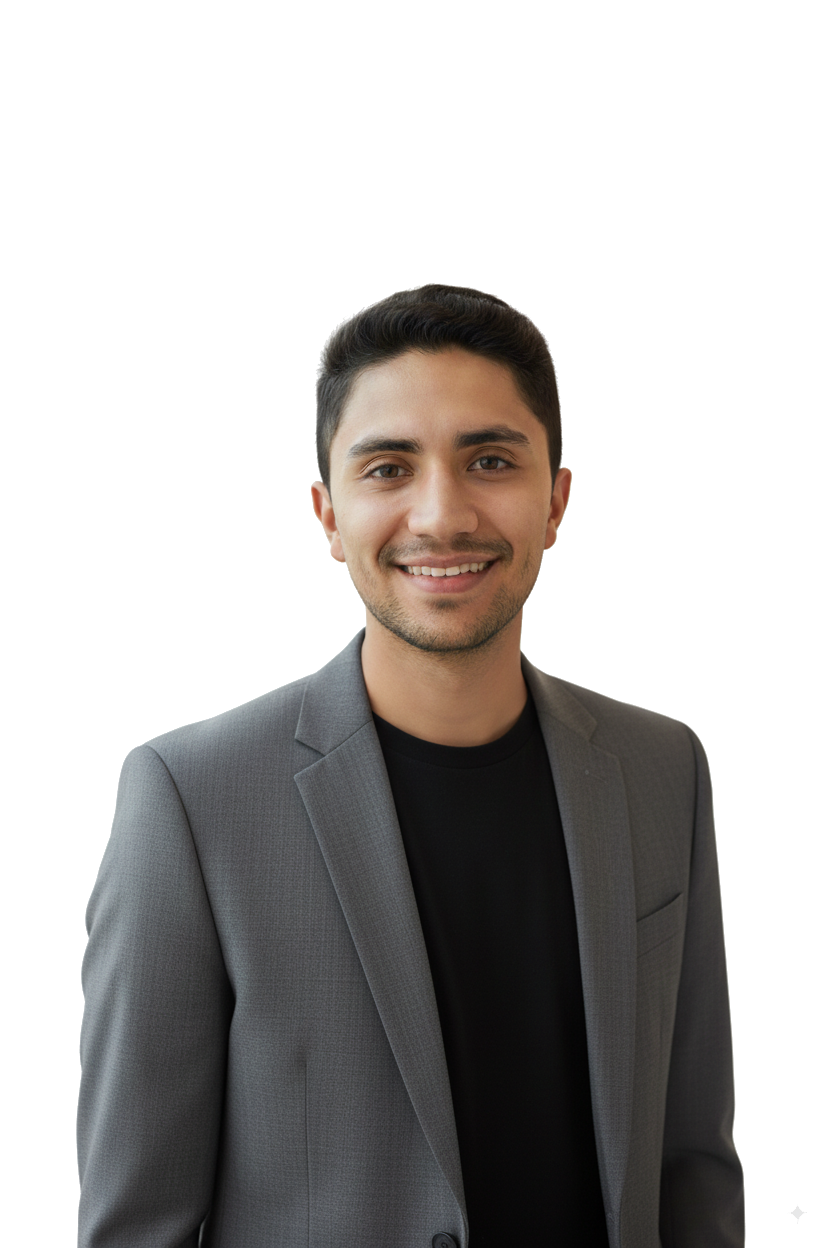
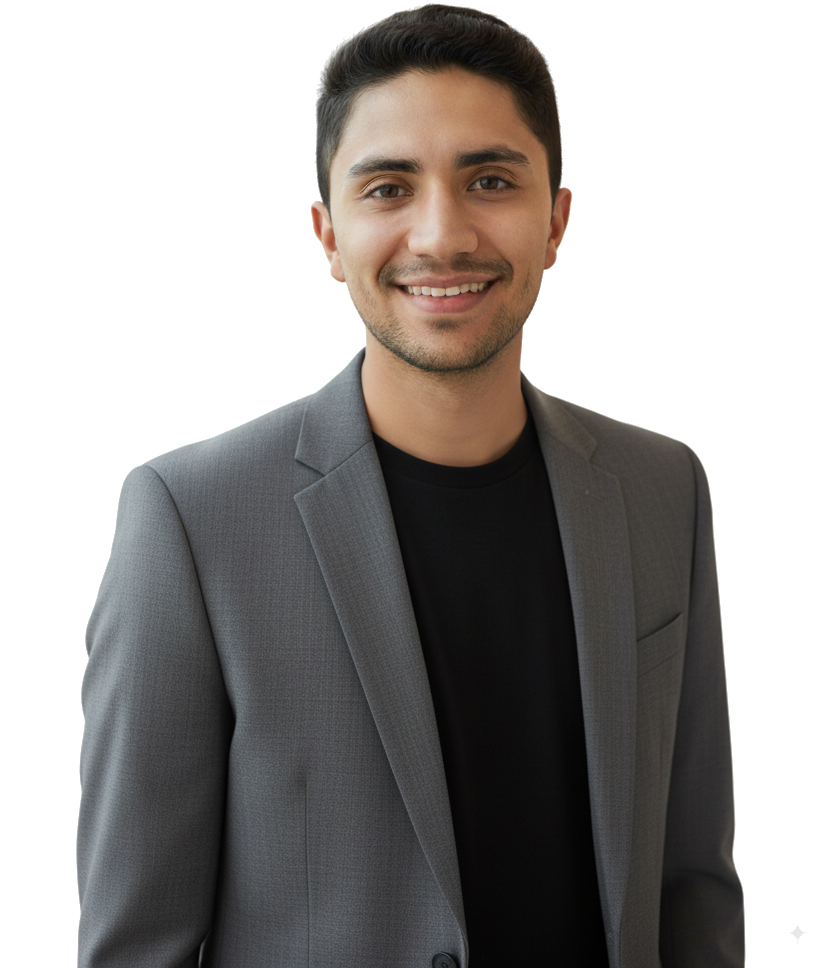
removed graph from responsive version

diff --git a/components/StartSection/StartPage.module.css b/components/StartSection/StartPage.module.css
@@ -63,7 +63,7 @@
 }
 
 .photo_container {
-  margin: 0 auto;
+  margin: 10px auto 0 auto;
   width: 400px;
   height: 325px;
   position: relative;
@@ -72,7 +72,6 @@
 
 .photo {
   width: 100%;
-  margin-top: -120px;
   object-fit: cover;
   object-position: top;
 }
@@ -160,20 +159,21 @@
     width: 100%;
     height: 100vh;
     flex-direction: column;
-    justify-content: space-between;
-  }
-
-  .photo_buttons_container {
-    display: none;
-  }
-
-  .photo_container {
-    display: none;
+    justify-content: center;
   }
 
   .start_description_container .text_container {
     margin: 0;
     padding-bottom: 40px;
+  }
+
+  .photo_container {
+    max-width: 400px;
+    width: 80%;
+  }
+
+  .photo_buttons_container {
+    display: none;
   }
 }
 

diff --git a/components/StartSection/StartPage.jsx b/components/StartSection/StartPage.jsx
@@ -18,8 +18,7 @@ const StartPage = (props) => {
           <img src={'/icons/translation.png'} />
         </button>
       </StaticI18nLink>
-      <div className={`${styles.start_description_container} flexbox`}>          
-        {width < 1000 && <div style={{ padding: '10px', flexGrow: 1 }}><SkillsGraph /></div>}    
+      <div className={`${styles.start_description_container} flexbox`}>  
         <div className={`${styles.text_container}`} ref={containerRef}>    
           <div className={`${styles.photo_container} flexbox`}>
                 <img
